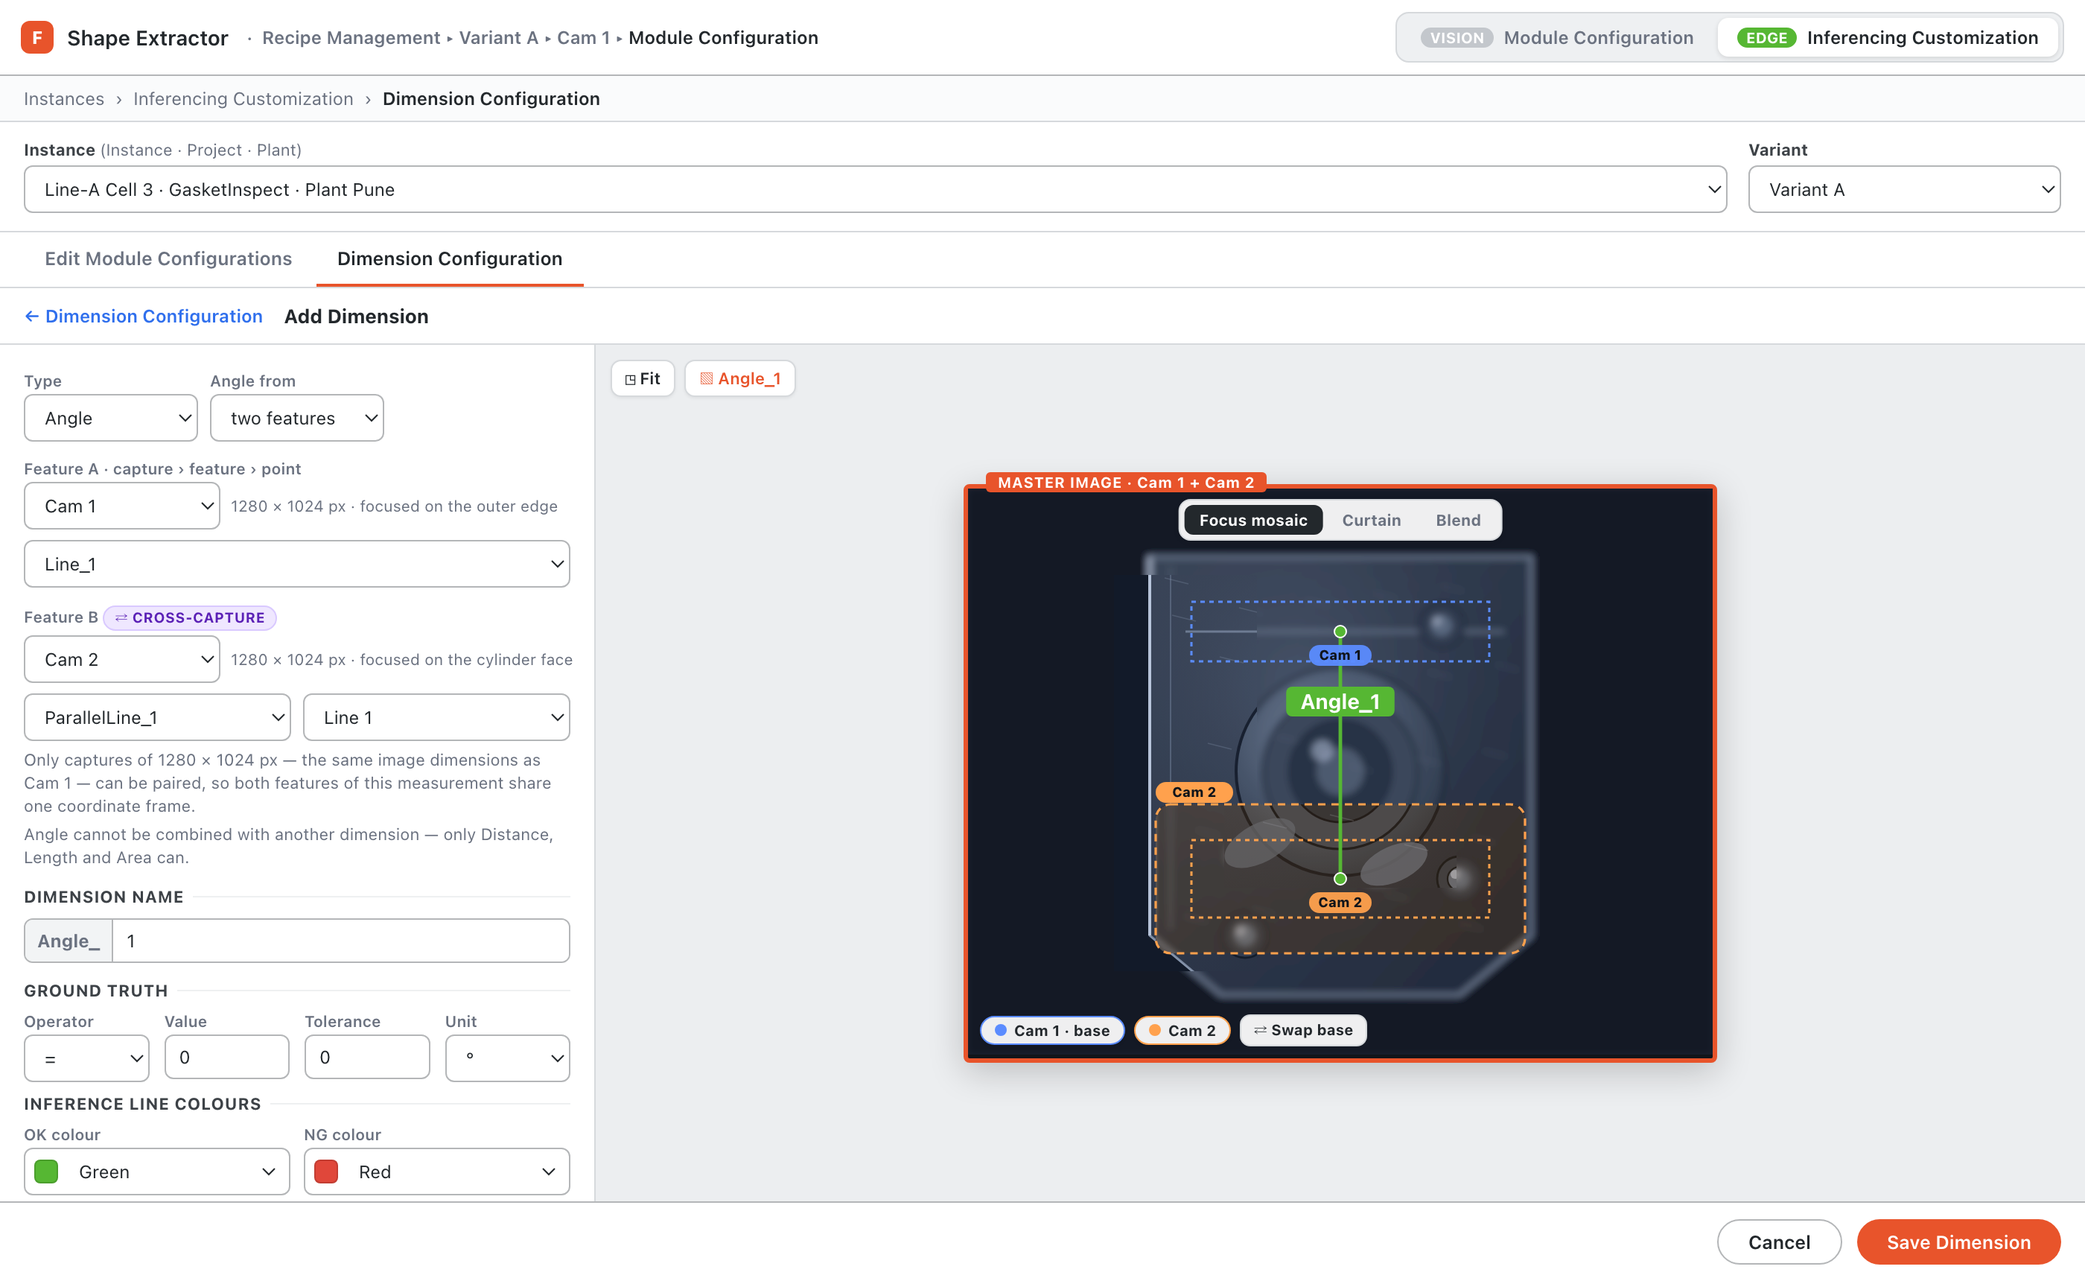
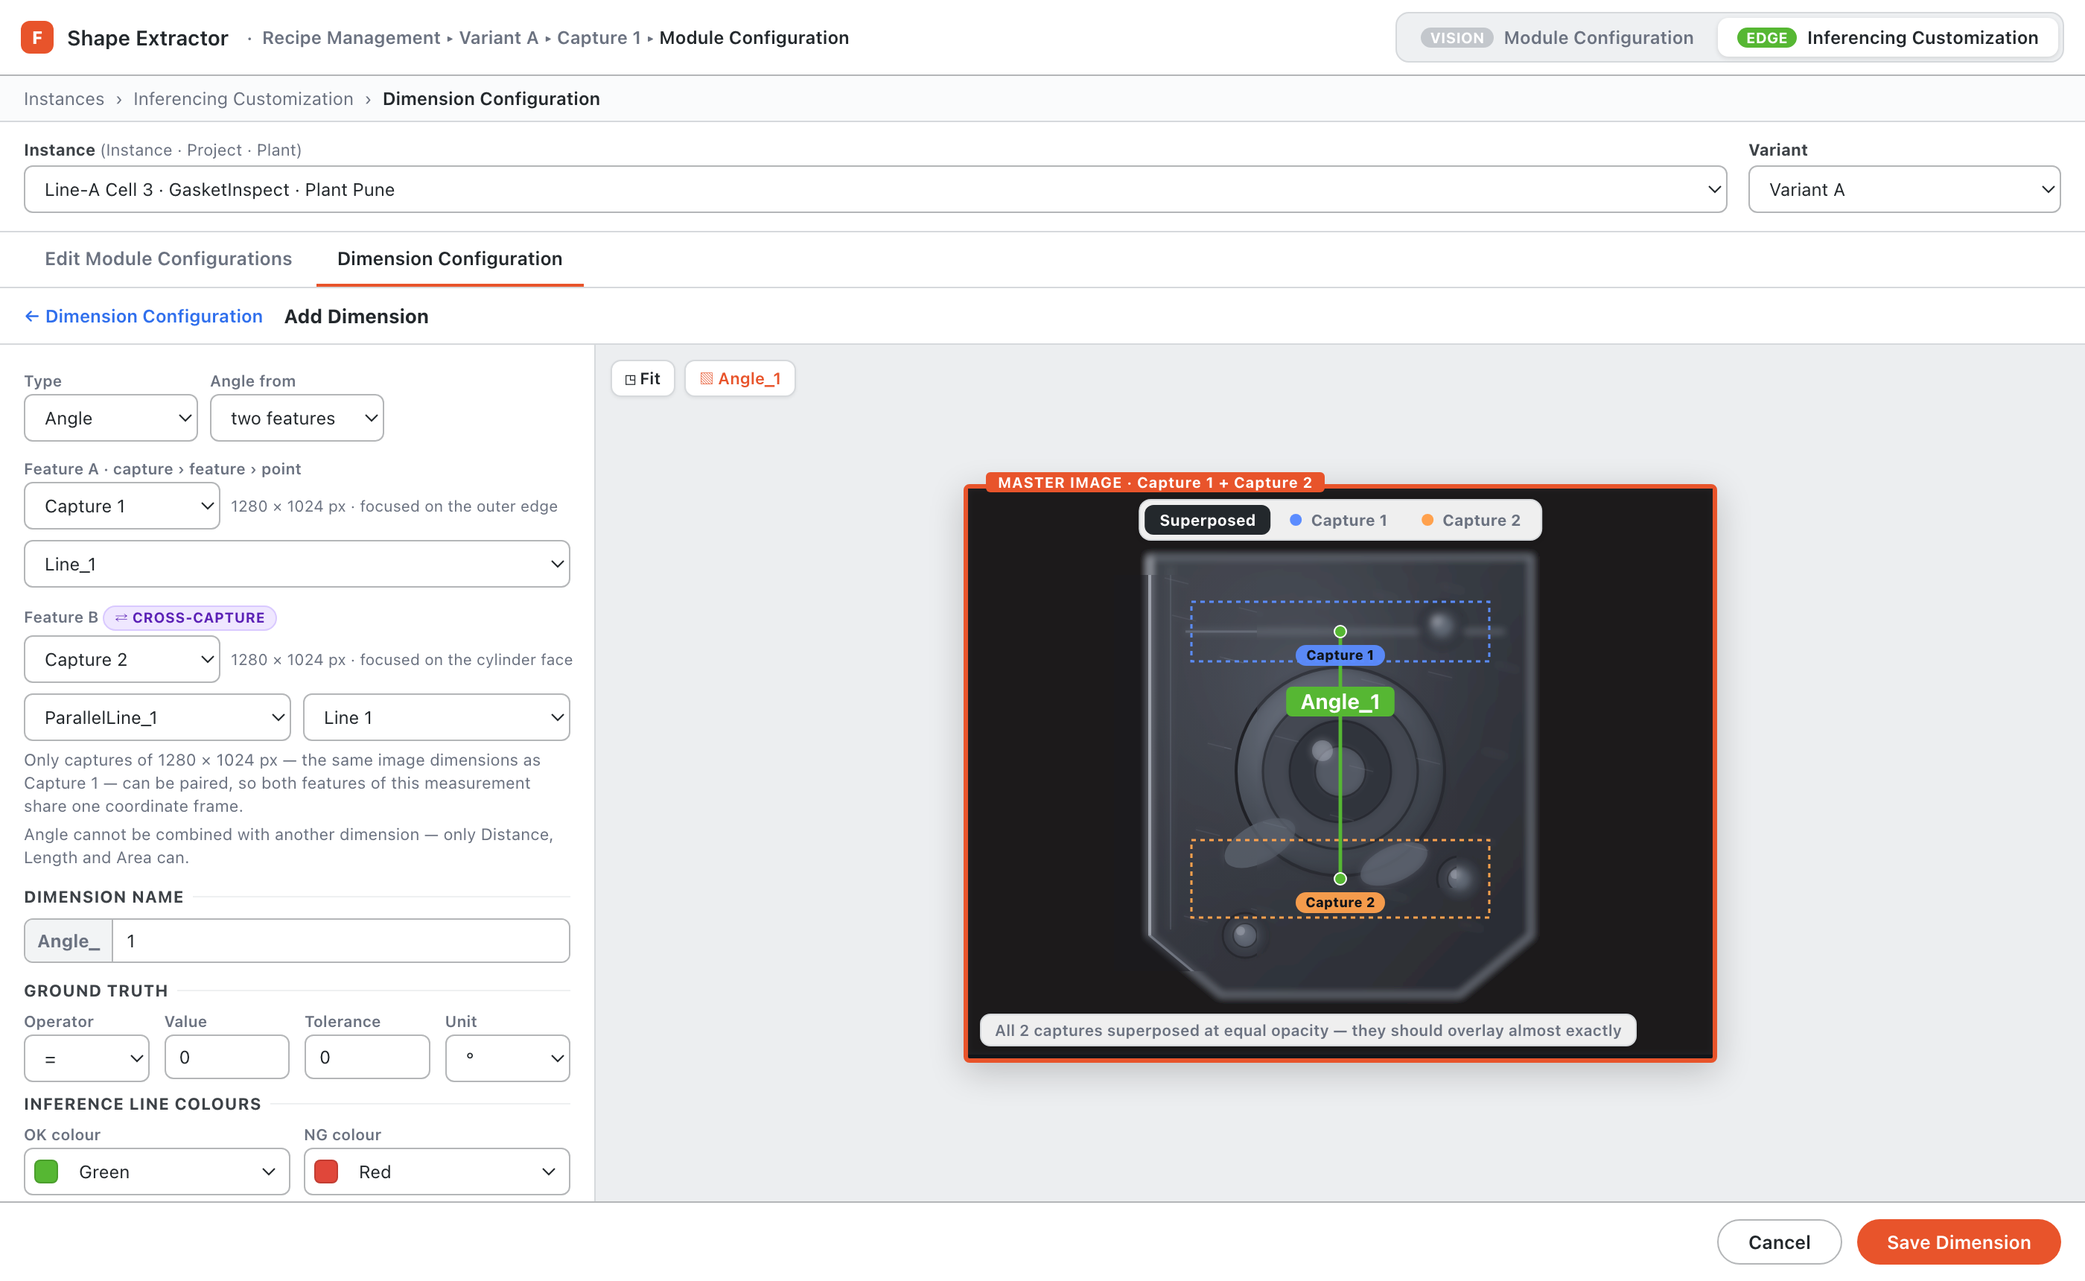
Rename Cam -> Capture; canvas replaces mosaic/curtain/blend with a superposed view plus per-capture tabs

diff --git a/index.html b/index.html
@@ -214,6 +214,11 @@
     background:#ffffffee;border:1px solid var(--line);border-radius:8px;padding:3px;box-shadow:0 1px 3px #0000001a;}
   .canvasmodes button{border:0;background:transparent;border-radius:6px;padding:4px 10px;font-size:10.5px;font-weight:700;color:var(--muted);}
   .canvasmodes button.on{background:var(--ink);color:#fff;}
+  .canvasmodes button{display:flex;align-items:center;gap:6px;white-space:nowrap;}
+  .canvasmodes .cdot{width:8px;height:8px;border-radius:50%;display:inline-block;}
+  .capnote{background:#ffffffee;border:1px solid var(--line);border-radius:7px;padding:4px 9px;
+    font-size:10.5px;font-weight:600;color:var(--muted);box-shadow:0 1px 2px #0000001a;}
+  .capnote b{color:var(--ink);}
   .caplegend{position:absolute;bottom:8px;left:8px;z-index:7;display:flex;gap:6px;align-items:center;flex-wrap:wrap;}
   .caplegend .swapbtn{background:#ffffffee;border:1px solid var(--line);border-radius:7px;padding:3px 8px;font-size:10px;font-weight:700;color:var(--ink);}
   .blendbar{position:absolute;bottom:8px;right:8px;z-index:7;display:flex;align-items:center;gap:7px;
@@ -385,10 +390,10 @@ const SEARCH_AREAS = [
 // Captures (camera configs) inside the selected variant. A dimension may span two captures
 // ONLY when they have identical image dimensions — same view, different focus.
 const CAPTURES = [
-  { id: 'cap1', name: 'Cam 1', pos: 'Position 1', w: 1280, h: 1024, focus: 'focused on the outer edge', tint: '#5b8cff' },
-  { id: 'cap2', name: 'Cam 2', pos: 'Position 1', w: 1280, h: 1024, focus: 'focused on the cylinder face', tint: '#ffa14d' },
-  { id: 'cap3', name: 'Cam 3', pos: 'Position 2', w: 1920, h: 1200, focus: 'wide view', tint: '#4dd6b0' },
-  { id: 'cap4', name: 'Cam 4', pos: 'Position 2', w: 1280, h: 1024, focus: 'a different viewpoint', tint: '#e879f9',
+  { id: 'cap1', name: 'Capture 1', pos: 'Position 1', w: 1280, h: 1024, focus: 'focused on the outer edge', tint: '#5b8cff' },
+  { id: 'cap2', name: 'Capture 2', pos: 'Position 1', w: 1280, h: 1024, focus: 'focused on the cylinder face', tint: '#ffa14d' },
+  { id: 'cap3', name: 'Capture 3', pos: 'Position 2', w: 1920, h: 1200, focus: 'wide view', tint: '#4dd6b0' },
+  { id: 'cap4', name: 'Capture 4', pos: 'Position 2', w: 1280, h: 1024, focus: 'a different viewpoint', tint: '#e879f9',
     xform: 'translate(46,-26) rotate(7 250 190)' },
 ];
 const capById = (id) => CAPTURES.find((c) => c.id === id) || CAPTURES[0];
@@ -1436,7 +1441,7 @@ function seedEdgeShapes() {
   const quad = mk('quad', 'Quadrilateral_1', 'cap1', { cx: 250, cy: 190, w: 190, h: 120, angle: 0 });
   quad.units = quad.units.map((u, i) => ({ ...u, coords: quadDefaultUnitsCoords(250, 190, 190, 120)[i] }));
   return [
-    // Cam 2 resolves the cylinder face; Cam 1 resolves the outer edge — the driving use case
+    // Capture 2 resolves the cylinder face; Capture 1 resolves the outer edge — the driving use case
     mk('circle', 'Circle_1', 'cap2', { cx: 250, cy: 190, r: 70 }),
     mk('edge', 'EdgeSearch_1', 'cap1', { cx: 126, cy: 190, w: 230, h: 30, angle: 90 }),
     mk('line', 'Line_1', 'cap1', { cx: 250, cy: 96, w: 200, h: 40, angle: 0 }),
@@ -1444,9 +1449,9 @@ function seedEdgeShapes() {
     quad,
     mk('parallel', 'ParallelLine_1', 'cap2', { cx: 250, cy: 262, w: 200, h: 52, angle: 0 }),
     mk('peak', 'Peak_1', 'cap2', { cx: 330, cy: 300, w: 110, h: 60, angle: 0 }),
-    // different image dimensions — must never appear opposite a Cam 1 / Cam 2 feature
+    // different image dimensions — must never appear opposite a Capture 1 / Capture 2 feature
     mk('circle', 'Circle_2', 'cap3', { cx: 250, cy: 190, r: 58 }),
-    // same 1280 × 1024 as Cam 1/Cam 2, but a different capture position — pairs, yet must not
+    // same 1280 × 1024 as Capture 1/Capture 2, but a different capture position — pairs, yet must not
     mk('circle', 'Circle_3', 'cap4', { cx: 296, cy: 164, r: 66 }),
   ];
 }
@@ -1599,13 +1604,13 @@ function PartBackdrop() {
         <radialGradient id="boss2" cx=".38" cy=".32" r=".8"><stop offset="0" stopColor="#6e7987" /><stop offset=".55" stopColor="#414a54" /><stop offset="1" stopColor="#232a31" /></radialGradient>
       </defs>
       <rect width="500" height="380" fill="#0b0e11" />
-      {/* bracket body — the crisp left edge at x≈122 is what Cam 1 resolves */}
+      {/* bracket body — the crisp left edge at x≈122 is what Capture 1 resolves */}
       <path d="M122 46 L378 46 L378 300 L330 340 L170 340 L122 300 Z" fill="url(#metal2)" stroke="#8e99a6" strokeWidth="1.6" />
       <path d="M122 46 L378 46 L378 300 L330 340 L170 340 L122 300 Z" fill="url(#sheen2)" />
       <line x1="122" y1="46" x2="122" y2="300" stroke="#c2cbd6" strokeWidth="2" />
       <line x1="136" y1="52" x2="136" y2="296" stroke="#5d6773" strokeWidth="1" opacity=".8" />
       <line x1="146" y1="96" x2="360" y2="96" stroke="#7b8592" strokeWidth="1.4" opacity=".85" />
-      {/* the cylindrical boss — what Cam 2 resolves */}
+      {/* the cylindrical boss — what Capture 2 resolves */}
       <circle cx="250" cy="190" r="70" fill="url(#boss2)" stroke="#111519" strokeWidth="2" />
       <circle cx="250" cy="190" r="52" fill="#39414a" stroke="#0e1216" strokeWidth="1.6" />
       <circle cx="250" cy="190" r="34" fill="#242b32" stroke="#0c0f13" strokeWidth="1.4" />
@@ -1692,32 +1697,20 @@ function shapeOutline(s, key, colour) {
 
 // Canvas preview of the dimension being authored.
 // Captures paired inside one term are pixel-aligned (identical image dimensions is enforced on the
-// dropdown), so a feature from one sits at the SAME coordinates on the other. Three ways to look at it:
-//   • Focus mosaic (default) — base capture's pixels, with each other capture's pixels patched into the
-//     ROIs of the features it owns, so every feature is shown by the capture that actually resolves it.
-//   • Curtain — free-form swipe between two captures.
-//   • Blend — cross-fade; its job is to prove the captures really are the same view.
-// A compound dimension draws every term, each marked with its operator, under one combined label.
+// dropdown), so a feature from one sits at the SAME coordinates on the other. The default view
+// SUPERPOSES every capture the dimension touches at equal opacity — the images are near-identical,
+// so the overlay reads cleanly and any misalignment is immediately obvious. Tabs step through the
+// individual captures: each shows its own pixels at full strength and emphasises the terms
+// configured on it, with the rest kept faint for context.
 function DimensionCanvas({ dim, shapes }) {
   const byId = (id) => shapes.find((s) => s.id === id);
   const terms = allTerms(dim);
   const caps = capturesUsed(dim);
-  const cross = caps.length > 1;
+  const multi = caps.length > 1;
 
-  const [mode, setMode] = useState('mosaic');
-  const [baseId, setBaseId] = useState(caps[0]);
-  const [curtain, setCurtain] = useState(250);
-  const [blend, setBlend] = useState(0.55);
-  const svgRef = useRef(null);
-  const swapped = useRef(false);
-  // the base capture follows Feature A's capture until the operator swaps it by hand
-  useEffect(() => {
-    if (!caps.includes(baseId) || !swapped.current) setBaseId(caps[0]);
-  }, [caps.join('|')]);
-
-  const baseCap = capById(caps.includes(baseId) ? baseId : caps[0]);
-  const otherCaps = caps.filter((c) => c !== baseCap.id).map(capById);
-  const swapCap = otherCaps[0] || baseCap;   // curtain / blend compare against the first other capture
+  const [tab, setTab] = useState('all');            // 'all' = superposed, else a captureId
+  useEffect(() => { if (tab !== 'all' && !caps.includes(tab)) setTab('all'); }, [caps.join('|')]);
+  const active = tab === 'all' ? null : tab;
 
   // every shape a term touches, tagged with the capture that owns it
   const usedShapes = [];
@@ -1729,92 +1722,61 @@ function DimensionCanvas({ dim, shapes }) {
       if (sh && !usedShapes.some((u) => u.id === sh.id)) usedShapes.push(sh);
     });
   });
-  const patchesFor = (capId) => usedShapes.filter((sh) => sh.captureId === capId).map((sh) => padBox(shapeBBox(sh), 24));
 
-  // one drawable segment per term
+  // one drawable segment per term, tagged with the captures it belongs to
   const segs = terms.map((t, i) => {
     const cfg = DIM_TYPE_CFG[t.type];
     const two = cfg.linePick ? (t.angleMode || 'two features') === 'two features' : cfg.two;
     const sA = byId(t.shapeOneId), sB = two ? byId(t.shapeTwoId) : null;
+    const on = [sA, sB].filter(Boolean).map((sh) => sh.captureId);
     return {
-      key: t.id || 'base', op: i === 0 ? null : t.op, type: cfg.name,
+      key: t.id || 'base', op: i === 0 ? null : t.op, type: cfg.name, caps: on,
+      // a term belongs to the active tab only when every one of its features lives there
+      here: !active || (on.length > 0 && on.every((c) => c === active)),
       pA: sA ? featPoint(sA, t.shapeOneSelector) : null,
       pB: sB ? featPoint(sB, t.shapeTwoSelector) : null,
     };
   });
-  const mids = segs.map((g) => g.pA && g.pB ? [(g.pA[0] + g.pB[0]) / 2, (g.pA[1] + g.pB[1]) / 2] : g.pA).filter(Boolean);
+  const shown = segs.filter((g) => g.here);
+  const mids = shown.map((g) => g.pA && g.pB ? [(g.pA[0] + g.pB[0]) / 2, (g.pA[1] + g.pB[1]) / 2] : g.pA).filter(Boolean);
   const centre = mids.length
     ? [mids.reduce((n, m) => n + m[0], 0) / mids.length, mids.reduce((n, m) => n + m[1], 0) / mids.length]
     : null;
   const col = dim.okColor || '#56b733';
   const label = dim.name || 'Dimension';
-
-  const startCurtain = (e) => {
-    e.preventDefault();
-    const move = (ev) => {
-      const r = svgRef.current.getBoundingClientRect();
-      setCurtain(Math.max(24, Math.min(476, (ev.clientX - r.left) * 500 / r.width)));
-    };
-    const up = () => { window.removeEventListener('pointermove', move); window.removeEventListener('pointerup', up); };
-    window.addEventListener('pointermove', move); window.addEventListener('pointerup', up);
-  };
+  const layers = active ? [capById(active)] : caps.map(capById);
 
   return (
     <div className="canvas-wrap">
       <div className="frame">
-        <span className="flabel">MASTER IMAGE · {caps.map(capLabel).join(' + ')}</span>
-        {cross && (
+        <span className="flabel">MASTER IMAGE · {active ? capLabel(active) : caps.map(capLabel).join(' + ')}</span>
+        {multi && (
           <div className="canvasmodes">
-            {[['mosaic', 'Focus mosaic'], ['curtain', 'Curtain'], ['blend', 'Blend']].map(([k, l]) => (
-              <button key={k} className={mode === k ? 'on' : ''} onClick={() => setMode(k)}>{l}</button>
+            <button className={tab === 'all' ? 'on' : ''} onClick={() => setTab('all')}>Superposed</button>
+            {caps.map((cid) => (
+              <button key={cid} className={tab === cid ? 'on' : ''} onClick={() => setTab(cid)}>
+                <span className="cdot" style={{ background: capById(cid).tint }} />{capLabel(cid)}
+              </button>
             ))}
           </div>
         )}
-        <svg ref={svgRef} width="500" height="380" viewBox="0 0 500 380">
-          <defs>
-            {otherCaps.map((c) => (
-              <clipPath key={c.id} id={'mos-' + c.id}>
-                {patchesFor(c.id).map((r, i) => <rect key={i} x={r[0]} y={r[1]} width={r[2]} height={r[3]} rx="10" />)}
-              </clipPath>
-            ))}
-            <clipPath id="curtain-clip"><rect x={curtain} y="0" width={500 - curtain} height="380" /></clipPath>
-          </defs>
-
-          <CaptureRender cap={baseCap} pfx="base" />
-
-          {cross && mode === 'mosaic' && otherCaps.map((c) => (
-            <g key={c.id}>
-              <g clipPath={`url(#mos-${c.id})`}><CaptureRender cap={c} pfx={'mos' + c.id} /></g>
-              {patchesFor(c.id).map((r, i) => (
-                <g key={i}>
-                  <rect x={r[0]} y={r[1]} width={r[2]} height={r[3]} rx="10" fill="none"
-                    stroke={c.tint} strokeWidth="1.6" strokeDasharray="5 4" />
-                  <rect x={r[0]} y={r[1] - 15} width="52" height="14" rx="7" fill={c.tint} />
-                  <text x={r[0] + 26} y={r[1] - 7.5} fill="#10141a" fontSize="9" fontWeight="800" textAnchor="middle" dominantBaseline="middle">{c.name}</text>
-                </g>
-              ))}
+        <svg width="500" height="380" viewBox="0 0 500 380">
+          {/* superposed: equal-weight average of every capture (1, 1/2, 1/3 … stacks to equal parts) */}
+          {layers.map((c, i) => (
+            <g key={c.id} opacity={i === 0 ? 1 : 1 / (i + 1)}>
+              <CaptureRender cap={c} pfx={'lay' + c.id} />
             </g>
           ))}
 
-          {cross && mode === 'curtain' && (
-            <g>
-              <g clipPath="url(#curtain-clip)"><CaptureRender cap={swapCap} pfx="cur" /></g>
-              <line x1={curtain} y1="0" x2={curtain} y2="380" stroke="#fff" strokeWidth="1.5" opacity=".9" />
-              <g onPointerDown={startCurtain} style={{ cursor: 'ew-resize' }}>
-                <rect x={curtain - 11} y="176" width="22" height="28" rx="6" fill="#ffffffee" stroke="#9aa3ad" />
-                <text x={curtain} y="191" fontSize="11" fontWeight="800" fill="#3b434c" textAnchor="middle" dominantBaseline="middle">⇄</text>
-                <rect x={curtain - 14} y="0" width="28" height="380" fill="transparent" />
-              </g>
+          {/* extracted geometry — coloured by the capture that owns it; other captures kept faint */}
+          {usedShapes.map((sh, i) => (
+            <g key={'o' + i} opacity={!active || sh.captureId === active ? 1 : 0.28}>
+              {shapeOutline(sh, 'o' + i, multi ? capById(sh.captureId).tint : '#8b93a1')}
             </g>
-          )}
-
-          {cross && mode === 'blend' && <g opacity={blend}><CaptureRender cap={swapCap} pfx="bl" /></g>}
-
-          {/* extracted geometry — always on top, coloured by the capture that owns it */}
-          {usedShapes.map((sh, i) => shapeOutline(sh, 'o' + i, cross ? capById(sh.captureId).tint : '#8b93a1'))}
+          ))}
 
           {segs.map((g) => (
-            <g key={g.key}>
+            <g key={g.key} opacity={g.here ? 1 : 0.22}>
               {g.pA && g.pB && <line x1={g.pA[0]} y1={g.pA[1]} x2={g.pB[0]} y2={g.pB[1]} stroke={col} strokeWidth="2.4" />}
               {g.pA && <circle cx={g.pA[0]} cy={g.pA[1]} r="4" fill={col} stroke="#fff" strokeWidth="1" />}
               {g.pB && <circle cx={g.pB[0]} cy={g.pB[1]} r="4" fill={col} stroke="#fff" strokeWidth="1" />}
@@ -1830,16 +1792,19 @@ function DimensionCanvas({ dim, shapes }) {
               })()}
             </g>
           ))}
-          {cross && usedShapes.map((sh, i) => {
+
+          {/* which capture each endpoint came from */}
+          {multi && usedShapes.map((sh, i) => {
             const pt = featPoint(sh, '');
             const c = capById(sh.captureId);
             return (
-              <g key={'tag' + i}>
-                <rect x={pt[0] - 21} y={pt[1] + 9} width="42" height="14" rx="7" fill={c.tint} opacity=".95" />
+              <g key={'tag' + i} opacity={!active || sh.captureId === active ? 1 : 0.28}>
+                <rect x={pt[0] - 30} y={pt[1] + 9} width="60" height="14" rx="7" fill={c.tint} opacity=".95" />
                 <text x={pt[0]} y={pt[1] + 16.5} fill="#10141a" fontSize="9" fontWeight="800" textAnchor="middle" dominantBaseline="middle">{c.name}</text>
               </g>
             );
           })}
+
           {centre && (() => {
             const fs = dim.labelSize || 14, w = label.length * fs * 0.62 + 12, h = fs + 6, ry = centre[1] - 26 - h;
             return (
@@ -1851,22 +1816,15 @@ function DimensionCanvas({ dim, shapes }) {
           })()}
         </svg>
 
-        {cross && (
+        {multi && (
           <div className="caplegend">
-            {caps.map((cid) => (
-              <span key={cid} className="capchip" style={{ border: '1px solid ' + capById(cid).tint }}>
-                <span className="cd" style={{ background: capById(cid).tint }} />
-                {capById(cid).name}{baseCap.id === cid ? ' · base' : ''}
-              </span>
-            ))}
-            {otherCaps.length > 0 && <button className="swapbtn" onClick={() => { swapped.current = true; setBaseId(otherCaps[0].id); }}>⇄ Swap base</button>}
-          </div>
-        )}
-        {cross && mode === 'blend' && (
-          <div className="blendbar">
-            <span>{swapCap.name}</span>
-            <input type="range" min="0" max="1" step="0.05" value={blend} onChange={(e) => setBlend(Number(e.target.value))} />
-            <span>opacity</span>
+            {active
+              ? (shown.length > 0
+                  ? <span className="capnote">Showing <b>{capLabel(active)}</b> ·{' '}
+                      {shown.length} of {segs.length} {segs.length === 1 ? 'measurement' : 'measurements'} configured on it</span>
+                  : <span className="capnote">Showing <b>{capLabel(active)}</b> · every measurement here is taken
+                      <b> across captures</b>, so none sits wholly in it — see <b>Superposed</b></span>)
+              : <span className="capnote">All {caps.length} captures superposed at equal opacity — they should overlay almost exactly</span>}
           </div>
         )}
       </div>
@@ -2385,7 +2343,7 @@ function App() {
       <div className="topbar">
         <div className="brand">
           <span className="dot">F</span><span>Shape Extractor</span>
-          <span className="crumbs">&nbsp;·&nbsp; Recipe Management ▸ Variant A ▸ Cam 1 ▸ <b>Module Configuration</b></span>
+          <span className="crumbs">&nbsp;·&nbsp; Recipe Management ▸ Variant A ▸ Capture 1 ▸ <b>Module Configuration</b></span>
         </div>
         <div className="switch">
           <button className={view === 'vision' ? 'on' : ''} onClick={() => setView('vision')}><span className="pv">VISION</span> Module Configuration</button>
